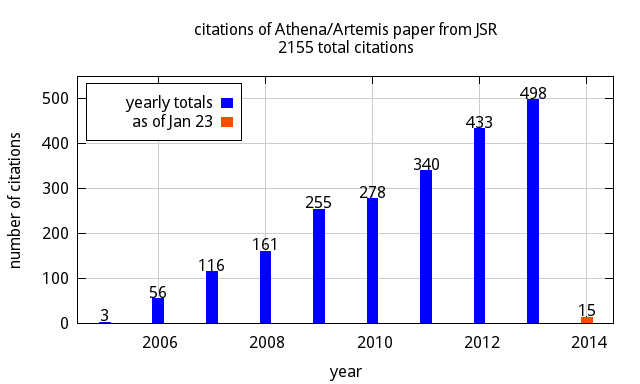
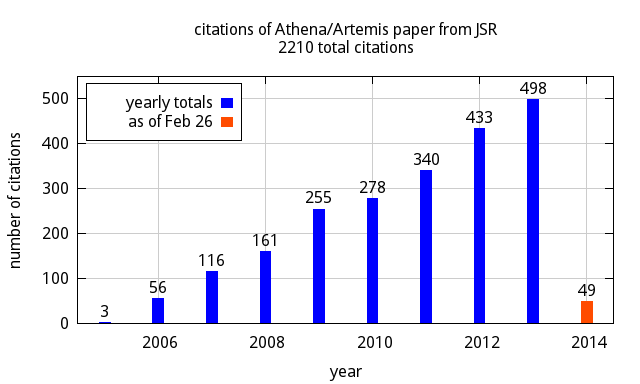
update citations

diff --git a/cv.tex b/cv.tex
@@ -107,7 +107,7 @@ Research Project: XAFS Studies of Half-Metallic Heusler Alloys
   training materials.  Several times each year, I teach XAS training
   courses at synchrotrons and other institutions around the
   world. \newline{} The publication introducing the software has over
-  2100 citations as of December, 2013, making it the highest cited
+  2200 citations as of February, 2013, making it the highest cited
   article in the Journal of Synchrotron Radiation.}
 
 \cvline{Inform XAS analysis using local structure theory}%
@@ -319,7 +319,7 @@ Research Project: XAFS Studies of Half-Metallic Heusler Alloys
 
 
 \nocite{*}
-\bibliographystyle{myunsrt}
+\bibliographystyle{cv-unsrt}
 \bibliography{allmine}
 
 \end{document}
